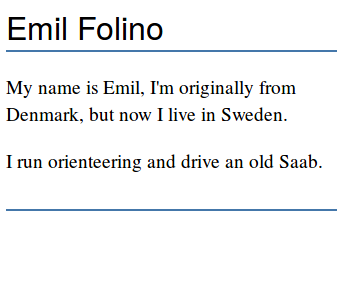
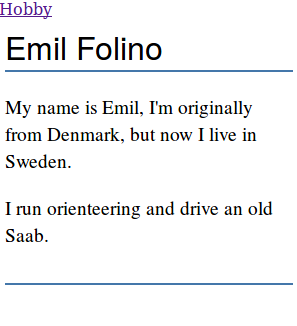
Updated exercise and assignment texts for webapp kmom01

diff --git a/content/kunskap/kom-igang-med-mithril-och-webpack.md b/content/kunskap/kom-igang-med-mithril-och-webpack.md
@@ -24,7 +24,7 @@ Introduktion {#intro}
 
 Du kan läsa mer om [begreppet SPA på Wikipedia](https://en.wikipedia.org/wiki/Single-page_application).
 
-Vi kommer installera och använda [Mithril](http://lhorie.github.io/mithril/) för att bygga en enkel applikation som hämtar JSON-data från en server, använder sig av en router och renderar vyerna via en template.
+Vi kommer installera och använda [Mithril](http://mithril.js.org/) för att bygga en enkel applikation som hämtar JSON-data från en server, använder sig av en router och renderar vyerna via en template.
 
 Låter det magiskt? Lika bra vi ser hur det fungerar i kod, så faller saker nog på plats.
 
@@ -38,7 +38,7 @@ Förutsättningar {#forutsattningar}
 --------------------------------------
 Du har installerat labbmiljön för kursen webapp.
 
-Du har installerat cordova och skapat Hello World cordova appen enligt [Kom igång med cordova]().
+Du har installerat cordova och skapat Hello World cordova appen enligt [Kom igång med cordova](). Vi utgår ifrån denna cordova app när vi i denna övning jobbar vidare med cordova och introducerar javascript ramverker mithril.
 
 
 
@@ -47,19 +47,20 @@ Installera mithril via npm {#install}
 Vi har i tidigare kurser använd pakethanteraren npm för att installera javascript och nodejs moduler. Vi kommer i denna kurs använda npm för att installera och administrera vår mithril installation och beroende kod. Detta görs med hjälp av en `package.json` fil, som vi initiellt skapar genom att skriva följande i terminalen:
 
 ```bash
-$ cd meapp
+$ cd meapp/www
 $ npm init --yes
 ```
 
-Vi har nu skapat vår egna paket fil för just detta projektet som än så länge inte innehåller mycket, men som vi i denna guide kommer bygga på. Vi ska nu installera mithril via npm och gör det med följande kommandon. Vi använder `--save` för att det ska sparas som en modul vi är beroende av i `package.json`.
+Vi har nu skapat vår egna paket fil för just detta projektet som än så länge inte innehåller mycket, men som vi i denna guide kommer bygga på. Vi ska nu installera mithril och webapck via npm och gör det med följande kommandon. Vi använder `--save` för att det ska sparas som en modul vi är beroende av i `package.json`. Webpack installerar vi för att vi kan importera och exportera kod i mithril.
 
 ```bash
 $ npm install mithril --save
+$ npm install webpack --save
 ```
 
-Du kommer få två varningar när du kör ovanstående kommandon, men dessa kan du ignorera för nu.
+Det kan hända att du får varningar när du kör ovanstående kommandon, men dessa kan du ignorera för nu.
 
-Vi har nu installerat mithril, men för att vi kan skriva snygg moduliserad kod, exportera och importera moduler, installerar vi webpack med kommandot `npm install webpack --save`. Låt oss nu titta in i `package.json`, för att se vad vi har fått på plats och lägga till så vi kan köra våra mithril applikationer.
+Låt oss nu titta in i `package.json`, för att se vad vi har fått på plats och lägga till så vi kan köra våra mithril applikationer.
 
 ```json
 {
@@ -84,7 +85,7 @@ I scripts attributet ändrar vi så det blir följande för att löpande under u
 
 ```json
   "scripts": {
-      "start": "webpack src/index.js bin/app.js -d --watch"
+      "start": "webpack js/index.js bin/app.js -d --watch"
   }
 ```
 
@@ -108,22 +109,22 @@ Vi skapar först vår ingångspunkt får vår app `index.html` med följande inn
 
 Här skapar minsta möjliga ramarna för att visa en hemsida i en webbläsare på både datorn och mobilen. Vi inkluderar `bin/app.js` som är vår mithril skapat och ihoppackat av webpack.
 
-All vår mithril kod placerar vi en egen katalog `src` med hjälp av dessa kommandon:
+All vår mithril kod placerar vi en egen katalog `js` med hjälp av dessa kommandon:
 
 ```bash
-$ mkdir src src/views
-$ touch src/index.js
-$ touch src/views/me.js
+$ mkdir js/views
+$ touch js/index.js
+$ touch js/views/me.js
 ```
 
-`index.js` filen är vårt utgångspunkt för appen och den pekar ut vad som ska visas när en användare kommer till vår app. Vi skapar desutom en katalog för våra vyer, med vårt första mithril vy `me.js`.
+`js/index.js` filen är vårt utgångspunkt för appen och den pekar ut vad som ska visas när en användare kommer till vår app. Vi skapar desutom en katalog för våra vyer, med vårt första mithril vy `me.js`.
 
 
 
 Vår första vy {#vy}
 --------------------------------------
 
-I vår `src/views/me.js` fil vill vi än så länge bara visa upp vårt egna namn. Vi importerar först mithril och lägger till vårt vy som en modul. Alla vy-moduler har en funktion med namnet view som returnerar de element som ska visas upp i vyen. Här vill vi bara visa vårt egna namn i en `<h1>` tag, så bytt gärna ut mitt namn mot ditt.
+I vår `js/views/me.js` fil vill vi än så länge bara visa upp vårt egna namn. Vi importerar först mithril och lägger till vårt vy som en modul. Alla vy-moduler har en funktion med namnet view som returnerar de element som ska visas upp i vyen. Här vill vi bara visa vårt egna namn i en `<h1>` tag, så bytt gärna ut mitt namn mot ditt.
 
 ```javascript
 var m = require("mithril")
@@ -135,7 +136,7 @@ module.exports = {
 }
 ```
 
-För att appen ska veta om att vi vill visa upp vårt me-vy måste vi in i appens utgångspunkt och peka ut vyn. Vi anger först i vilket html-element vår vy skall renderas och skickar sedan med vår vy till funktionen `m.mount`:
+För att appen ska veta om att vi vill visa upp vårt me-vy måste vi in i appens utgångspunkt (`js/index.js`) och peka ut vyn. Vi anger först i vilket html-element vår vy skall renderas och skickar sedan med vår vy till funktionen `m.mount`:
 
 ```javascript
 var m = require("mithril")
@@ -156,10 +157,52 @@ $ npm start
 
 En router för flera sidor {#router}
 --------------------------------------
-Det blir 
+Med bara en sida i vår har vi inte kommit långt så låt oss titta på hur vi lägger till ytterligare en vy och en router så vi kommer åt vyn. Först skapar vi filen `js/views/hobby.js` och precis som `me.js` definerar våra nya `hobby.js` en vy. I detta vy ser du att vi returnerar en array av objekt som placeras i ordning efter varann i vyn.
+
+```javascript
+var m = require("mithril")
+
+module.exports = {
+    view: function() {
+        return [
+            m("h1", "My hobby"),
+            m("p", "I run orienteering most of the time.")
+        ]
+    }
+}
+```
+
+I vår `index.js` ändrar vi så istället för att använda funktion `m.mount()` använder vi funktionen `m.route()`. Route funktionen tar tre argument:
+
+1. Vilket element som skall fyllas med de virtuella noder.
+
+1. Vår ursprungsroute som är det vy där appen börjar.
+
+1. Ett objekt som definerar alla routes i appen.
+
+Och vår index.js fil ser nu ut så här:
+
+```javascript
+var m = require("mithril");
+
+var Me = require("./views/me");
+var Hobby = require("./views/hobby");
+
+m.route(document.body, "/", {
+    "/": Me,
+    "/hobby" : Hobby
+});
+```
+
+Om du manuellt skriver in `/hobby` efter `index.html#!` i din webbläsares adressfält, ser du innehållet från din hobby-vy. Vi vill dock inte skriva in adresser manuellt, så vi ska nu titta på hur vi kan skapa navigering för vår app. Vi kan skapa länkar precis som vi har skapat andra virtuella noder tidigare, så vi lägger till en länk längst upp i vårt me-vy med följande kod. Vi kan nu gå från vårt Me-vy till hobby-vyn.
+
+```javascript
+m("a", {href: "/hobby", oncreate: m.route.link}, "Hobby")
+```
 
 
-Styling och layout {#styling}
+
+Styling {#styling}
 --------------------------------------
 Vi vill ju alltid att våra hemsidor, applikationer och program är snygga och användarvänliga, så därför vill vi kunna styla våra sidor. Vi inkluderar därför vår egna css-fil i `index.html`.
 
@@ -180,16 +223,73 @@ var m = require("mithril")
 
 module.exports = {
     view: function() {
-        return m("div.main-container", [
-            m("h1", "Emil Folino"),
-            m("p", "My name is Emil, I'm originally from Denmark, but now I live in Sweden."),
-            m("p", "I run orienteering and drive an old Saab.")
-        ]);
+        return [
+            m("a", {href: "/hobby", oncreate: m.route.link}, "Hobby"),
+            m("div", [
+                m("h1", "Emil Folino"),
+                m("p", "My name is Emil, I'm originally from Denmark, but now I live in Sweden."),
+                m("p", "I run orienteering and drive an old Saab.")
+            ])
+        ];
     }
 }
 ```
 
-[FIGURE src=/image/snapvt17/mithril-me-screen.png]
+[FIGURE src="/image/snapvt17/mithril-me-screen.png" caption="Screenshot enkel me-sida i mithril"]
+
+
+
+Layout {#layout}
+--------------------------------------
+Om vi vill ha navigering i alla vyer kan vi lägga till länkar längst upp, men som vanligt vill vi hålla vår kod DRY. I mithril kan vi använda oss av layouts för att återanvända kod i alla vyer. Vi skapar först ett nytt vy `js/views/layout.js`, som blir vår mall för andra vyer.
+
+```javascript
+var m = require("mithril")
+
+module.exports = {
+    view: function(vnode) {
+        return m("main", [
+            m("navbar", [
+                m("h2", "Emil Folino"),
+                m("ul", [
+                    m("li", [m("a", {href: "/", oncreate: m.route.link}, "Me")]),
+                    m("li", [m("a", {href: "/hobby", oncreate: m.route.link}, "Hobby")])
+                ])
+            ]),
+            m("section", vnode.children)
+        ])
+    }
+}
+```
+
+I ovanstående kodexempel skapar vi vår navigation som en navbar med en "logga" och två stycken länkar. Efter navbar skapas ett section-element, som innehåller de virtuella noder från vyn som använder sig av layout. Så lått oss titta på hur vi använder oss av layout från `index.js`.
+
+```javascript
+var m = require("mithril");
+
+var Layout = require("./views/layout");
+var Me = require("./views/me");
+var Hobby = require("./views/hobby");
+
+m.route(document.body, "/", {
+    "/": {
+        render: function() {
+            return m(Layout, m(Me))
+        }
+    },
+    "/hobby": {
+        render: function() {
+            return m(Layout, m(Hobby))
+        }
+    }
+});
+```
+
+Vi använder oss utav en [RouteResolver](http://mithril.js.org/route.html#routeresolver) för att rendera layout och skickar med de virtuella noder, som ska renderas via layouten i vårt vy.
+
+Här under kan ni se ett exempel på en mithril me-app med navigation.
+
+[FIGURE src="/image/snapvt17/mithril-me-screen-final.png" caption="Screenshot enkel me-sida i mithril med navigation"]
 
 
 

diff --git a/content/uppgift/skapa-en-mithril-me-app-till-webapp-kursen.md b/content/uppgift/skapa-en-mithril-me-app-till-webapp-kursen.md
@@ -1,0 +1,81 @@
+---
+author: efo
+category: webbprogrammering
+revision:
+  "2017-03-07": (A, efo) Första utgåvan i samband med kursen webapp v2.
+...
+Skapa en mithril me-app
+==================================
+
+Du skall bygga en me-app, som en me-sida, men med fokus på mobila enheter. Du använder javascript ramverket mithril.
+
+<!--more-->
+
+
+
+Förkunskaper {#forkunskaper}
+-----------------------
+
+Du har jobbat igenom artiklarna "[Kom igång med ramverket Mithril](kunskap/kom-igang-med-mithril-och-webpack)" och [Kom igång med cordova]().
+
+
+
+Introduktion {#intro}
+-----------------------
+
+Om du har gjort enligt övningen i artikeln ovan så har du i stort sett redan klarat av uppgiften.
+
+Börja med att ta en kopia av koden från artikeln.
+
+```bash
+# Ställ dig i rooten av kursrepot
+cd me/kmom01
+cp -ri meapp/* me1/
+```
+
+Nu har du din bas du kan utgå ifrån, spara alla dina filer i katalogen `me/kmom01/me1`.
+
+
+
+Krav {#krav}
+-----------------------
+
+1. Bygg en me-app i mithril.
+
+1. Din me-app skall innehålla tre sidor. Me, Report och About.
+
+1. Fyll sidorna med relevant innehåll. Det skall finnas minst en bild på sidorna Me och About.
+
+1. Det skall finnas en meny så använderen kan navigera mellan sidorna, måste fungera på en mobil enhet.
+
+1. Gör din me-app personlig, så man ser att det är din me-app. Skapa en egen style som fungerar mobile-first responsivt.
+
+1. Din me-app ska kunna köras med cordova både i browsern och i en android emulator.
+
+1. Validera och publicera din kod enligt följande.
+
+```bash
+# Ställ dig i kurskatalogen
+dbwebb validate me1
+dbwebb publish me1
+```
+
+Rätta eventuella fel som dyker upp och publicera igen. När det ser grönt ut så är du klar.
+
+
+
+Extrauppgift {#extra}
+-----------------------
+
+Inga extrauppgifter detta kursmomentet.
+
+
+
+Tips från coachen {#tips}
+-----------------------
+
+Validera och publicera ofta. Så slipper du en massa validerings- och publiceringsfel i slutet av övningen.
+
+När du gör *publish* så körs även *validate*. Blir det för mycket fel när du kör *publish* så kan det bli enklare att bara göra *validate* till att börja med.
+
+Lycka till och hojta till i forumet om du behöver hjälp!

diff --git a/content/pedagogisk-reflektion/en_var_av_streaming.md b/content/pedagogisk-reflektion/en_var_av_streaming.md
@@ -1,0 +1,53 @@
+---
+author:
+    - efo
+revision:
+    "2017-02-14": "(PA, efo) Första utgåvan i form av ett utkast."
+category:
+    - reflektion
+    - streaming
+    - not yet peer reviewed
+...
+En vår av streaming
+===================================
+Webbprogrammering på BTH (dbwebb.se) är en praktisk utbildning, som ligger i topp i Sverige för programmering per högskolepoäng (HP). Under första året går programmstudenterna två parallella programmeringskurser i varje läsperiod, så totalt blir det 60 HP programmering första läsåret. I varje kurs lämnar studenterna in sex inlämningsuppgifter och ett projekt. Våra läraktiviteter styrs i stor grad av den stora mängden praktiskt arbete och varje måndag och tisdag har vi genomgång av veckans inlämning och kursmoment. Under våren 2017 har vi haft som mål att samköra distans och campus undervisning i större grad. En del i detta projekt är att genomgångerna streamas till youtube så distansstudenter kan följa med. I denna artikel berätter jag om vårt tillvägagångssätt, fördelar och nackdelar, samt vilken utrustning vi använder för streaming.
+
+
+
+<!--more-->
+
+
+
+Utrustning och datorsalen {#utrustning}
+-----------------------
+Vid genomgångerna är vi i datorsalen där campus studenterna har deras lektion.
+
+
+
+Fördelar och nackdelar {#prosandcons}
+-----------------------
+Två publiker, svårt att prata både till streamen och salen.
+Frågor.
+
+
+Enhetlig genomgång för campus och distans.
+Möjligt att lägga mer energi och tid på genomgången då vi delar upp det i lärarteamet.
+
+
+
+Diskussion om artikeln {#diskussion}
+-----------------------
+
+I [artikelns forumtråd](t/XXX) kan du ge din feedback till författaren och vidare diskutera ämnet som artikeln hanterar.
+
+
+
+Peer reviewed {#peer}
+-----------------------
+Följande har läst denna artikel, givit sin feedback och samtalat om artikelns innehåll.
+
+| Granskare |
+|-----------|
+|TBD |
+|TBD |
+|TBD |

diff --git a/content/author/efo/byline.md b/content/author/efo/byline.md
@@ -1,3 +1,3 @@
 [FIGURE src=/image/lararteam/emil.jpg?w=100&h=100&cf alt="Emil Folino" class="left" caption="Emil Folino"]
 
-<a href=https://twitter.com/emilfolino rel=author><strong>Emil Folino</strong></a> arbetar på BTH och undervisar, utvecklar och handleder dbwebb-kurserna. Utöver arbetet på BTH utvecklar Emil små egna projekt, springer i skogen och har en förkärlek för Nya Zealandsk Pinot Noir och det goda livet.
+<a href=https://twitter.com/emilfolino rel=author><strong>Emil Folino</strong></a> arbetar på BTH och undervisar, utvecklar och handleder dbwebb-kurserna. Utöver arbetet på BTH utvecklar Emil små egna projekt och springer orientering i [Karlskrona SOK](http://idrottonline.se/karlskronasok). Har tidigare jobbat som konsult i ett mindre företag.
